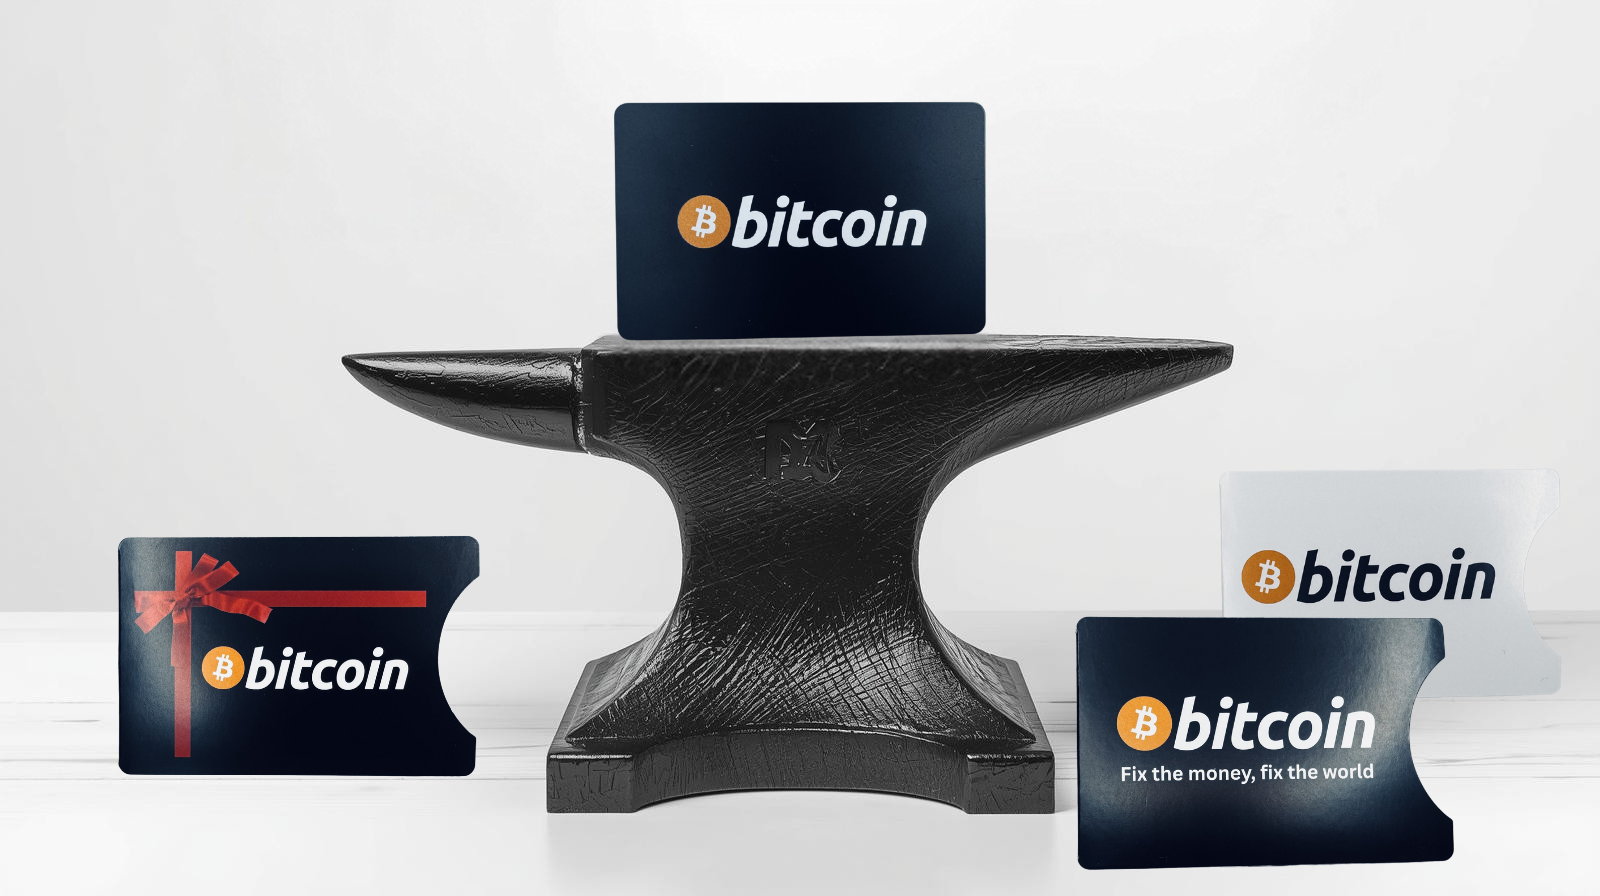
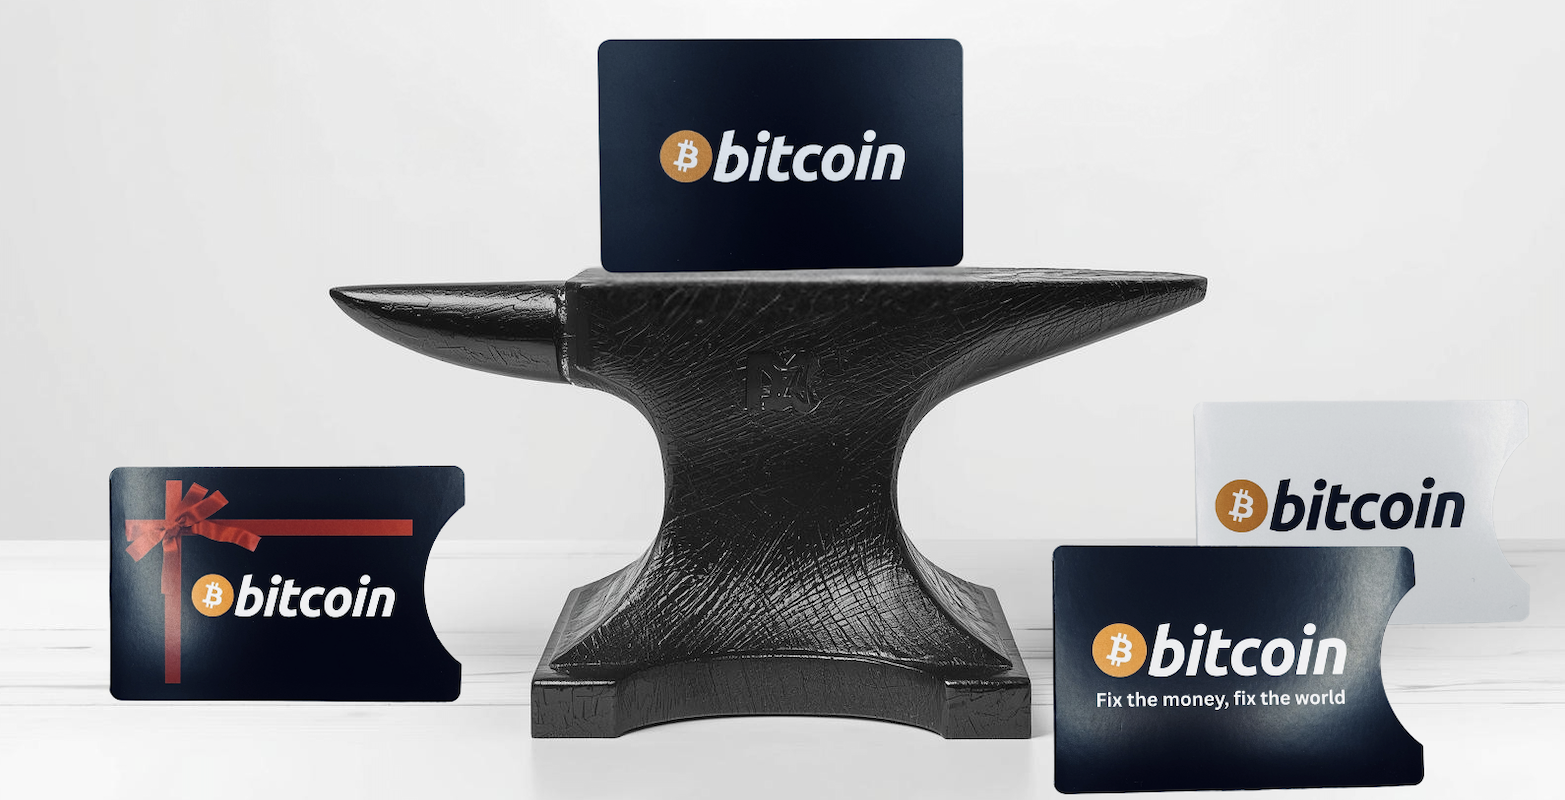
optimizings

diff --git a/index.html b/index.html
@@ -6,7 +6,7 @@
     <link rel="preconnect" href="https://fonts.googleapis.com">
     <link rel="preconnect" href="https://fonts.gstatic.com" crossorigin>
     <link href="https://fonts.googleapis.com/css2?family=Manrope:wght@300;400;500;600;700&display=swap" rel="stylesheet">
-    <link rel="stylesheet" href="style.css?v=2.1.0">
+    <link rel="stylesheet" href="style.css?v=2.1.2">
     <meta name="viewport" content="width=device-width, initial-scale=1, viewport-fit=cover">
     <meta name="theme-color" content="#050505">
     <!-- Google tag (gtag.js) -->
@@ -55,7 +55,7 @@
         <div class="header-visual header-visual--fullimage" data-animate>
             <a class="header-card-link" href="legacy21.html" aria-label="Legacy 21 Karte erleben">
                 <div class="header-image-frame" data-animate>
-                    <img src="img/legacy21/2.png" alt="Blockschmiede Headerbild" class="header-image">
+                    <img src="img/legacy21/header.png" alt="Blockschmiede Headerbild" class="header-image">
                     <span class="header-card-text">Legacy 21 Karte erleben</span>
                 </div>
             </a>
@@ -71,7 +71,7 @@
                         <p>„Jede hinreichend fortgeschrittene Technologie ist von Magie nicht zu unterscheiden“</p>
                         <cite>Arthur C. Clarke</cite>
                     </blockquote>
-                    <p class="lead">Krypto ist gekommen, um zu bleiben! Wir helfen Ihnen dabei, diese bahnbrechende Technologie zu verstehen und anzuwenden.</p>
+                    <p class="lead">Bitcoin ist gekommen, um zu bleiben! Krypto ist die Zukunft. Wir helfen Ihnen dabei, diese Technologien zu verstehen und anzuwenden.</p>
                     <div class="intro-cards">
                         <details class="intro-card" data-animate style="--animate-delay: 0.18s;">
                             <summary>
@@ -128,7 +128,7 @@
         <section class="section legacy-teaser" aria-labelledby="legacy-teaser-heading">
             <div class="legacy-teaser__grid">
                 <div class="legacy-teaser__media" data-animate style="--animate-delay: 0.08s;" aria-hidden="true">
-                    <img src="img/legacy21/2.png" alt="" loading="lazy">
+                    <img src="img/legacy21/header.png" alt="" loading="lazy">
                 </div>
                 <div class="legacy-teaser__card" data-animate style="--animate-delay: 0.16s;">
                     <span class="section-kicker">Legacy 21 Karte</span>

diff --git a/style.css b/style.css
@@ -109,18 +109,6 @@ main {
     justify-content: center;
     gap: 1.8rem;
     min-height: 280px;
-    padding: 2.4rem 8% 3.2rem;
-    padding-inline-start: calc(8% + var(--safe-left));
-    padding-inline-end: calc(8% + var(--safe-right));
-    background-color: #050505;
-    background-image: linear-gradient(135deg, rgba(var(--accent-rgb), 0.32), rgba(var(--accent-rgb), 0.06)),
-                      linear-gradient(180deg, #111 0%, #050505 85%);
-    background-repeat: no-repeat;
-    background-position: center;
-    background-size: cover;
-    border-top: 1px solid rgba(255, 255, 255, 0.04);
-    border-bottom: 1px solid rgba(255, 255, 255, 0.08);
-    overflow: hidden;
 }
 
 .header-visual--fullimage {
@@ -213,6 +201,9 @@ main {
     max-width: none;
     overflow: hidden;
     flex: 1 1 auto;
+    max-height: 700px;
+    object-fit: cover;
+    object-position: bottom;
 }
 
 .header-visual--fullimage .header-image-frame::before {
@@ -588,10 +579,6 @@ main {
 @media (min-width: 1024px) {
     .header-visual {
         min-height: 420px;
-        background-image: url('img/header-desktop.svg'),
-                          linear-gradient(135deg, rgba(var(--accent-rgb), 0.32), rgba(var(--accent-rgb), 0.06)),
-                          linear-gradient(180deg, #111 0%, #050505 85%);
-        background-size: cover, cover, auto;
     }
 }
 
@@ -2236,13 +2223,6 @@ svg.usecase-icon {
     .main-nav.is-open {
         display: block;
         animation: navReveal 0.3s ease forwards;
-    }
-
-    .header-visual {
-        padding: 2rem 6% 2.6rem;
-        padding-inline-start: calc(6% + var(--safe-left));
-        padding-inline-end: calc(6% + var(--safe-right));
-        gap: 1.4rem;
     }
 
     .header-promo-link {

diff --git a/legacy21.html b/legacy21.html
@@ -6,7 +6,7 @@
     <link rel="preconnect" href="https://fonts.googleapis.com">
     <link rel="preconnect" href="https://fonts.gstatic.com" crossorigin>
     <link href="https://fonts.googleapis.com/css2?family=Manrope:wght@300;400;500;600;700&display=swap" rel="stylesheet">
-    <link rel="stylesheet" href="style.css?v=2.1.0">
+    <link rel="stylesheet" href="style.css?v=2.1.2">
     <link rel="stylesheet" href="https://cdnjs.cloudflare.com/ajax/libs/font-awesome/6.5.2/css/all.min.css" integrity="sha512-SnH5WK+bZxgPHs44uWIX+LLJAJ9/2PkPKZ5QiAj6Ta86w+fsb2TkcmfRyVX3pBnMFcV7oQPJkl9QevSCWr3W6A==" crossorigin="anonymous" referrerpolicy="no-referrer">
     <meta name="viewport" content="width=device-width, initial-scale=1, viewport-fit=cover">
     <meta name="theme-color" content="#050505">
@@ -51,7 +51,7 @@
         </div>
         <div class="header-visual header-visual--fullimage" data-animate>
             <div class="header-image-frame" data-animate>
-                <img src="img/legacy21/2.png" alt="Abstraktes Headerbild der Legacy 21 Karte" class="header-image">
+                <img src="img/legacy21/header.png" alt="Abstraktes Headerbild der Legacy 21 Karte" class="header-image">
             </div>
         </div>
     </header>

diff --git a/beratung.html b/beratung.html
@@ -6,7 +6,7 @@
     <link rel="preconnect" href="https://fonts.googleapis.com">
     <link rel="preconnect" href="https://fonts.gstatic.com" crossorigin>
     <link href="https://fonts.googleapis.com/css2?family=Manrope:wght@300;400;500;600;700&display=swap" rel="stylesheet">
-    <link rel="stylesheet" href="style.css?v=2.1.0">
+    <link rel="stylesheet" href="style.css?v=2.1.2">
     <meta name="viewport" content="width=device-width, initial-scale=1, viewport-fit=cover">
     <meta name="theme-color" content="#050505">
     <!-- Google tag (gtag.js) -->

diff --git a/datenschutz.html b/datenschutz.html
@@ -6,7 +6,7 @@
     <link rel="preconnect" href="https://fonts.googleapis.com">
     <link rel="preconnect" href="https://fonts.gstatic.com" crossorigin>
     <link href="https://fonts.googleapis.com/css2?family=Manrope:wght@300;400;500;600;700&display=swap" rel="stylesheet">
-    <link rel="stylesheet" href="style.css?v=2.1.0">
+    <link rel="stylesheet" href="style.css?v=2.1.2">
     <meta name="viewport" content="width=device-width, initial-scale=1, viewport-fit=cover">
     <meta name="theme-color" content="#050505">
     <!-- Google tag (gtag.js) -->

diff --git a/impressum.html b/impressum.html
@@ -6,7 +6,7 @@
     <link rel="preconnect" href="https://fonts.googleapis.com">
     <link rel="preconnect" href="https://fonts.gstatic.com" crossorigin>
     <link href="https://fonts.googleapis.com/css2?family=Manrope:wght@300;400;500;600;700&display=swap" rel="stylesheet">
-    <link rel="stylesheet" href="style.css?v=2.1.0">
+    <link rel="stylesheet" href="style.css?v=2.1.2">
     <meta name="viewport" content="width=device-width, initial-scale=1, viewport-fit=cover">
     <meta name="theme-color" content="#050505">
     <!-- Google tag (gtag.js) -->

diff --git a/produkte.html b/produkte.html
@@ -6,7 +6,7 @@
     <link rel="preconnect" href="https://fonts.googleapis.com">
     <link rel="preconnect" href="https://fonts.gstatic.com" crossorigin>
     <link href="https://fonts.googleapis.com/css2?family=Manrope:wght@300;400;500;600;700&display=swap" rel="stylesheet">
-    <link rel="stylesheet" href="style.css?v=2.1.0">
+    <link rel="stylesheet" href="style.css?v=2.1.2">
     <meta name="viewport" content="width=device-width, initial-scale=1, viewport-fit=cover">
     <meta name="theme-color" content="#050505">
     <!-- Google tag (gtag.js) -->

diff --git a/unternehmen.html b/unternehmen.html
@@ -6,7 +6,7 @@
     <link rel="preconnect" href="https://fonts.googleapis.com">
     <link rel="preconnect" href="https://fonts.gstatic.com" crossorigin>
     <link href="https://fonts.googleapis.com/css2?family=Manrope:wght@300;400;500;600;700&display=swap" rel="stylesheet">
-    <link rel="stylesheet" href="style.css?v=2.1.0">
+    <link rel="stylesheet" href="style.css?v=2.1.2">
     <meta name="viewport" content="width=device-width, initial-scale=1, viewport-fit=cover">
     <meta name="theme-color" content="#050505">
     <!-- Google tag (gtag.js) -->
